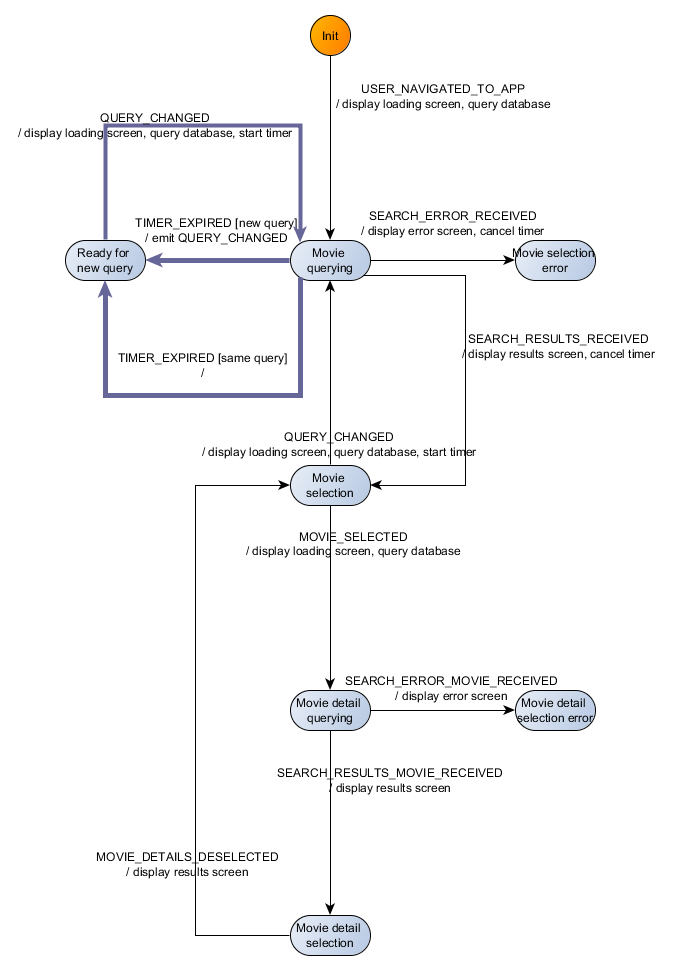
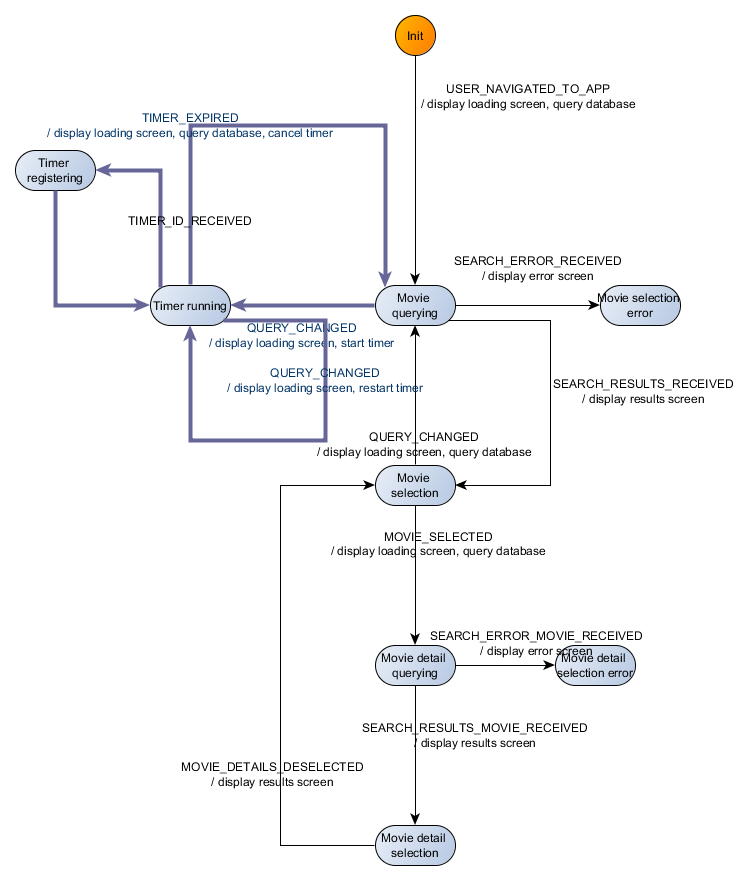
chore(article): new graphs to correct deboucne mistake

diff --git a/TODO.md b/TODO.md
@@ -1,3 +1,7 @@
 # add in article
 in section no need to use a library. 
 quick npm search online will return a variety of state machine library.
+IMPLEMENT DEBOUNCE to test my design
+if correct, correct the article!!
+movie search good fsm corrected flowchart with back button and debounce
+then put it in a link ? at the debounce in the table
